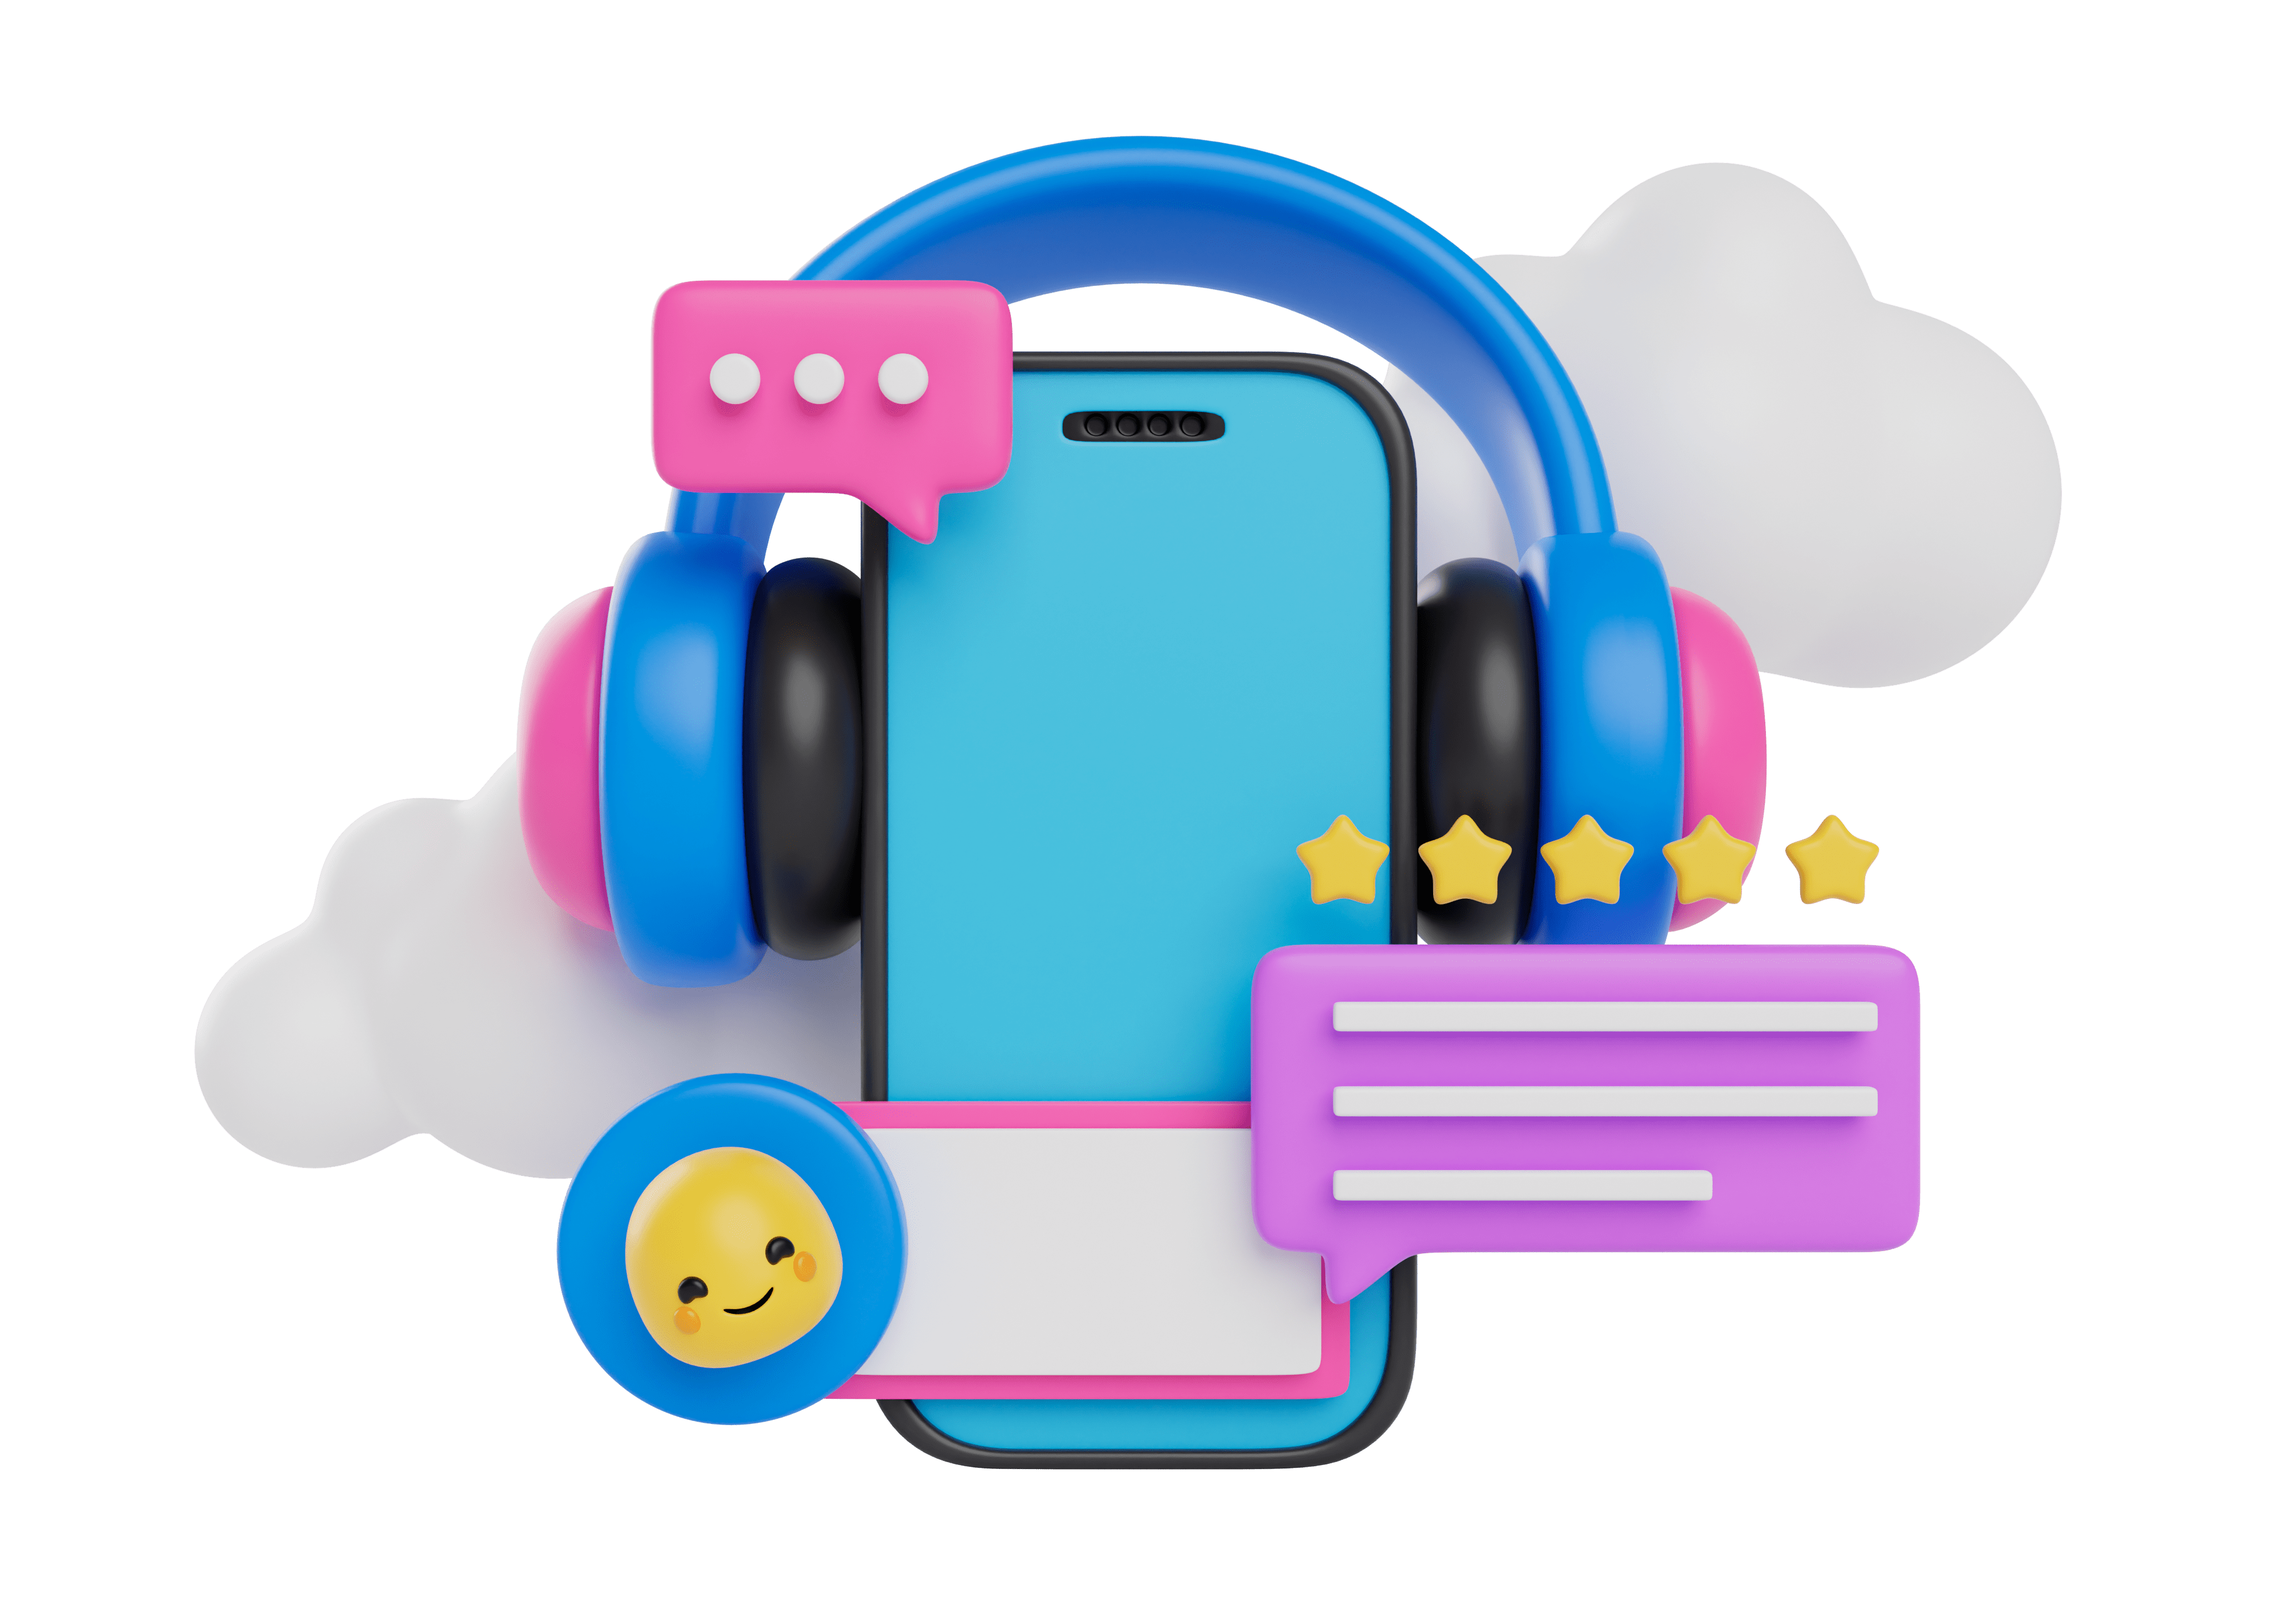
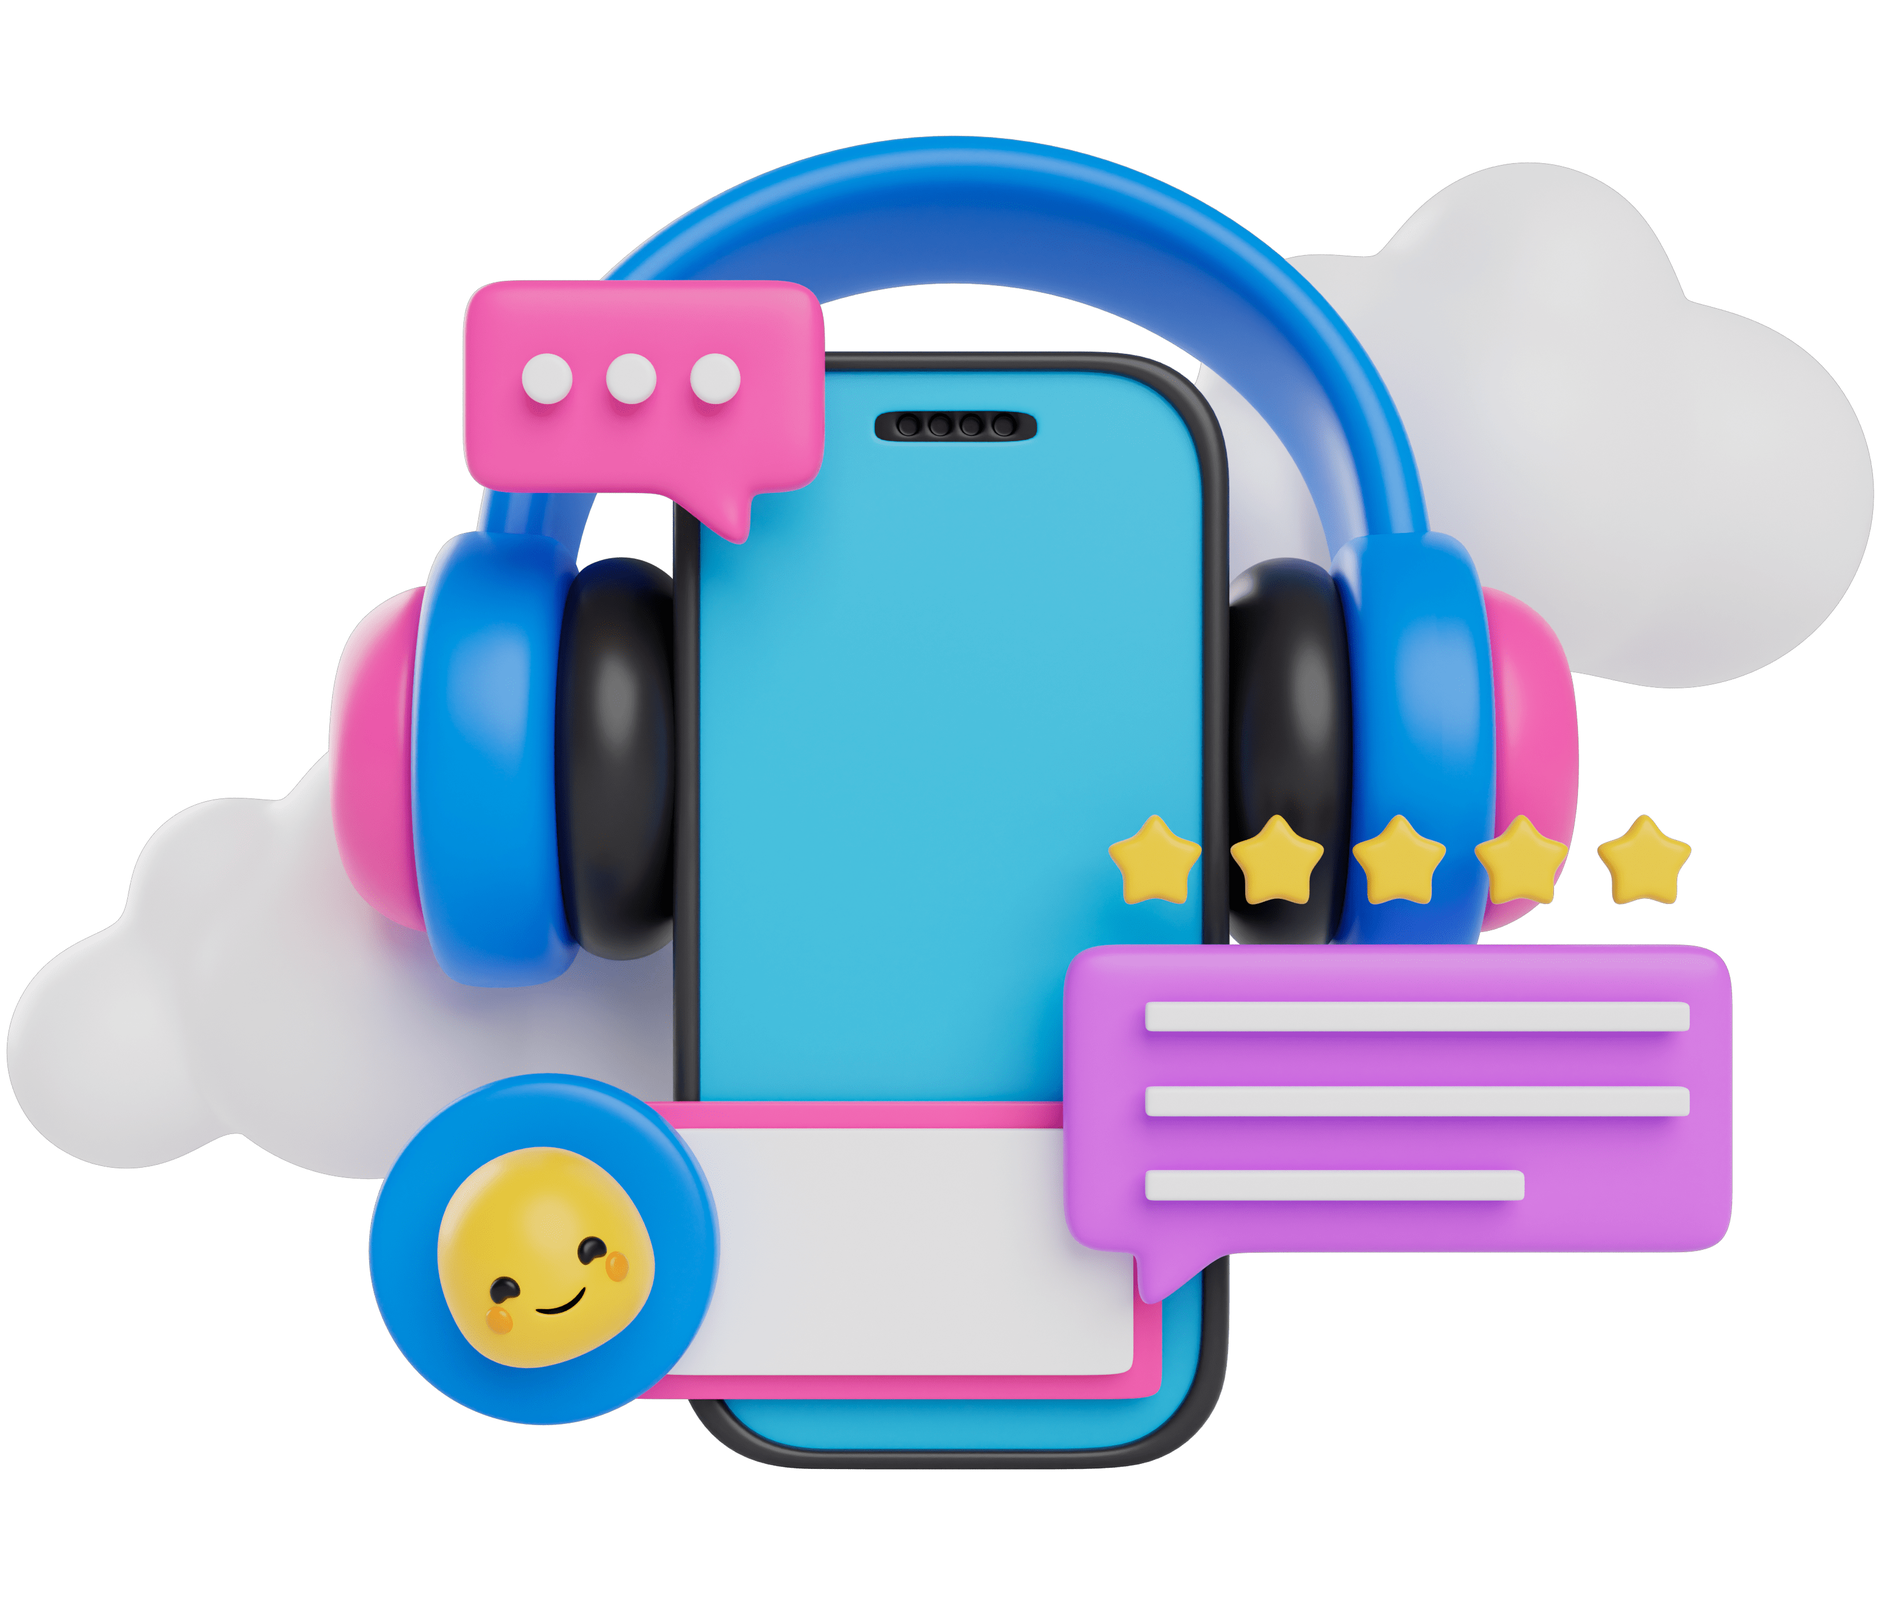
Cambios

diff --git a/index.html b/index.html
@@ -409,8 +409,8 @@
     </section>
     <!--! FIN SECCION PARA TESTIMONIOS -->
 
-    <!--? SECCION NUEVA SIN NOMBRE -->
-    <!-- <section id="comentario">
+    <!--? SECCION COMENTARIOS -->
+    <section id="comentario">
             <div class="contenedor_comentarios elemento">
                 <h2 class="comentario_titulo">
                     Déjanos un <span>comentario</span>
@@ -427,8 +427,8 @@
                     </div>
                 </div>
             </div>
-    </section> -->
-    <!--! SECCION NUEVA SIN NOMBRE -->
+    </section>
+    <!--! FIN SECCION COMENTARIOS -->
 
     <!--? PIE DE PAGINA O FOOTER -->
     <section id="footer">

diff --git a/style/comentarios/comentarios.css b/style/comentarios/comentarios.css
@@ -47,13 +47,15 @@
 
 .comentario_ilustracion{
     animation: Flotando 10s infinite;
-    width: 400px;
+    margin: 0;
+    padding: 0;
+    width: 300px;
     -webkit-animation: Flotando 10s infinite;
 }
 
 .ilustracion_sombra-comentario {
-    width: 130px;
-    animation: sombra 8s infinite;
+    width: 100px;
+    animation: sombra 10s infinite;
 }
 
 .comentario_derecho{
